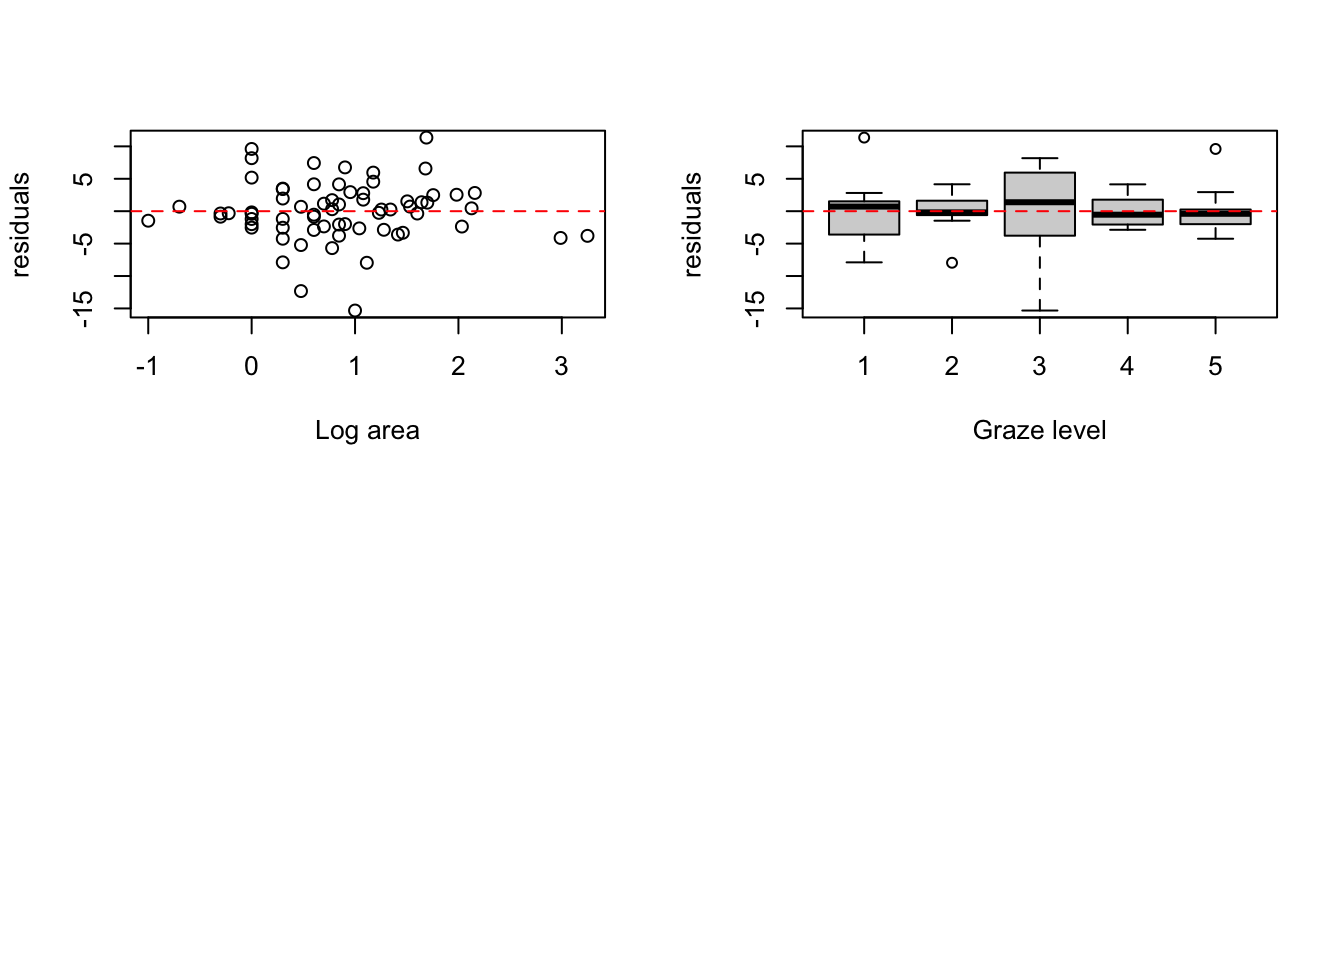
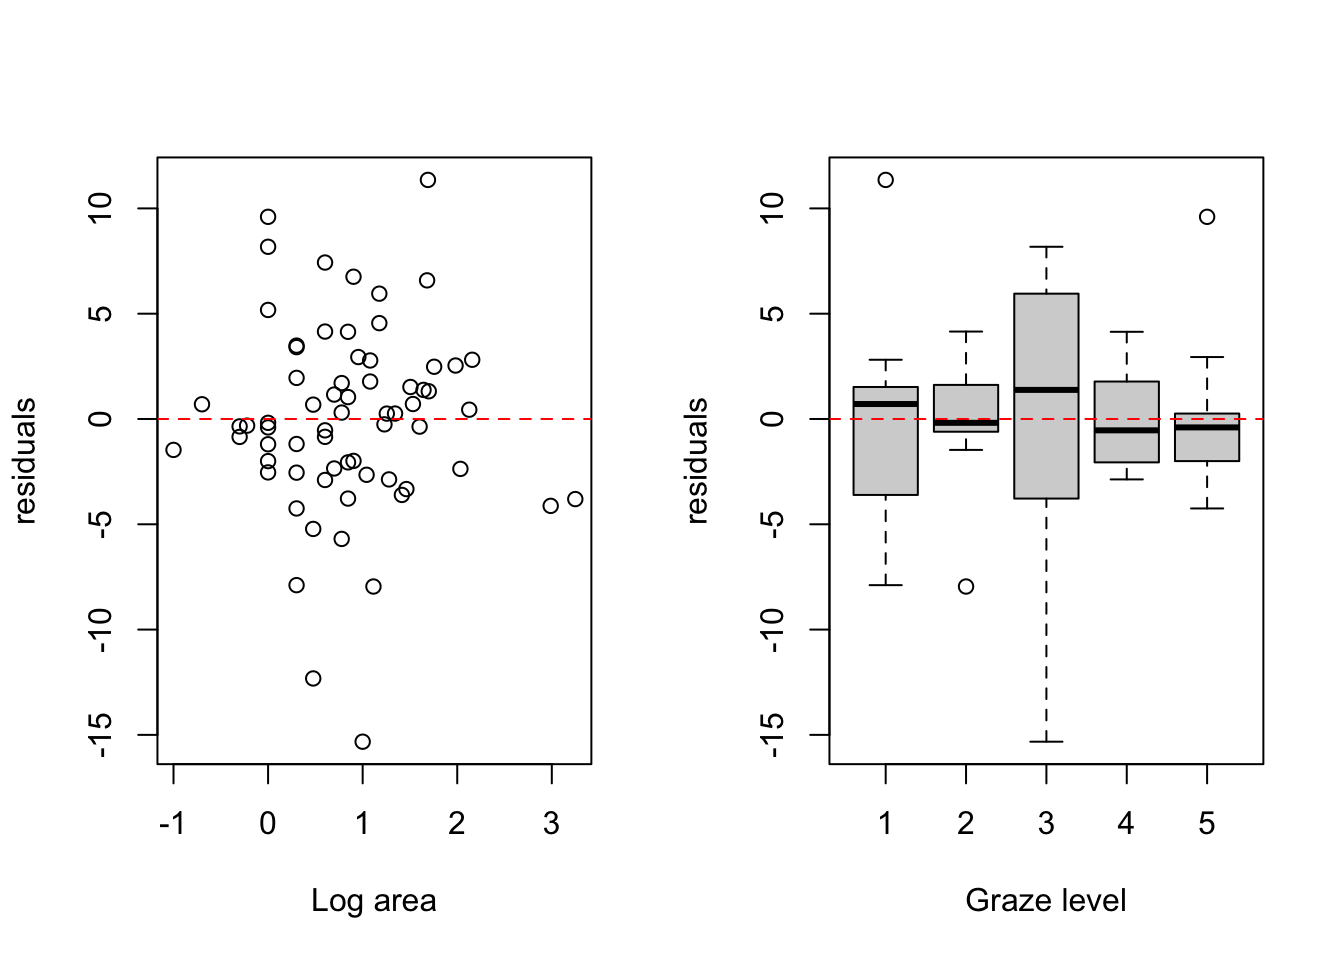
minor update to par function in LM3 exercise

diff --git a/linear_model_3_exercise_solutions.html b/linear_model_3_exercise_solutions.html
@@ -647,7 +647,7 @@ makes sense to you). Once you have the residuals you can then plot them
 against <code>LOGAREA</code> and also <code>FGRAZE</code>.</p>
 <div class="sourceCode" id="cb8"><pre class="sourceCode r"><code class="sourceCode r"><span id="cb8-1"><a href="#cb8-1" tabindex="-1"></a>res <span class="ot">&lt;-</span> <span class="fu">resid</span>(birds_inter1) <span class="co"># extract the residuals</span></span>
 <span id="cb8-2"><a href="#cb8-2" tabindex="-1"></a></span>
-<span id="cb8-3"><a href="#cb8-3" tabindex="-1"></a><span class="fu">par</span>(<span class="at">mfrow =</span> <span class="fu">c</span>(<span class="dv">2</span>, <span class="dv">2</span>))</span>
+<span id="cb8-3"><a href="#cb8-3" tabindex="-1"></a><span class="fu">par</span>(<span class="at">mfrow =</span> <span class="fu">c</span>(<span class="dv">1</span>, <span class="dv">2</span>))</span>
 <span id="cb8-4"><a href="#cb8-4" tabindex="-1"></a><span class="fu">plot</span>(loyn<span class="sc">$</span>LOGAREA, res, <span class="at">xlab =</span> <span class="st">&#39;Log area&#39;</span>, <span class="at">ylab =</span> <span class="st">&#39;residuals&#39;</span>)</span>
 <span id="cb8-5"><a href="#cb8-5" tabindex="-1"></a><span class="fu">abline</span>(<span class="at">h =</span> <span class="dv">0</span>, <span class="at">col =</span> <span class="st">&#39;red&#39;</span>, <span class="at">lty =</span> <span class="dv">2</span>) <span class="co"># adds a red dotted line at 0 on the y axis</span></span>
 <span id="cb8-6"><a href="#cb8-6" tabindex="-1"></a></span>
